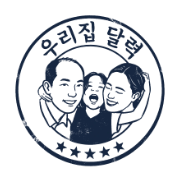
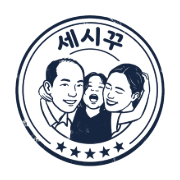
가족 도장 이미지를 '세시꾸' 도장으로 교체
- 흰 배경(#ffffff)을 제거해 투명 배경으로 변환
- 탭 아이콘·홈 화면 아이콘도 새 도장으로 다시 생성
- 이미지 주소에 버전(?v=2)을 붙여 예전 이미지가 캐시로 남지 않도록 함

diff --git a/index.html b/index.html
@@ -4,8 +4,8 @@
 <meta charset="utf-8">
 <meta name="viewport" content="width=device-width, initial-scale=1, viewport-fit=cover">
 <title>멀티 캘린더</title>
-<link rel="icon" type="image/png" sizes="64x64" href="images/favicon-64.png">
-<link rel="apple-touch-icon" href="images/apple-touch-icon.png">
+<link rel="icon" type="image/png" sizes="64x64" href="images/favicon-64.png?v=2">
+<link rel="apple-touch-icon" href="images/apple-touch-icon.png?v=2">
 <meta name="apple-mobile-web-app-title" content="우리집 달력">
 <meta name="application-name" content="우리집 달력">
 <meta name="theme-color" content="#ffffff">
@@ -398,7 +398,7 @@ input,textarea,select{font:inherit;color:inherit}
 <body>
 <div class="app">
   <header class="topbar">
-    <div class="brand"><img class="logo" src="images/family-stamp.webp" alt="우리집 달력" width="38" height="38"><span class="txt">멀티 캘린더</span></div>
+    <div class="brand"><img class="logo" src="images/family-stamp.webp?v=2" alt="세시꾸 가족 도장" width="38" height="38"><span class="txt">멀티 캘린더</span></div>
     <div class="monthnav">
       <button class="btn icon" data-act="prev" aria-label="이전"><svg viewBox="0 0 24 24" fill="none" stroke="currentColor" stroke-width="2.2" stroke-linecap="round" stroke-linejoin="round"><path d="M15 5l-7 7 7 7"/></svg></button>
       <div class="label" id="monthLabel"></div>
@@ -490,7 +490,7 @@ input,textarea,select{font:inherit;color:inherit}
 <!-- 로그인: 이름 + 숫자 4자리 -->
 <div class="auth" id="auth" hidden>
   <div class="auth-box">
-    <img class="auth-art" src="images/family-stamp.webp" alt="우리집 달력" width="380" height="380">
+    <img class="auth-art" src="images/family-stamp.webp?v=2" alt="세시꾸 가족 도장" width="380" height="380">
     <h1 id="authTitle"></h1>
     <p class="auth-sub" id="authSub"></p>
     <div id="authBody"></div>
